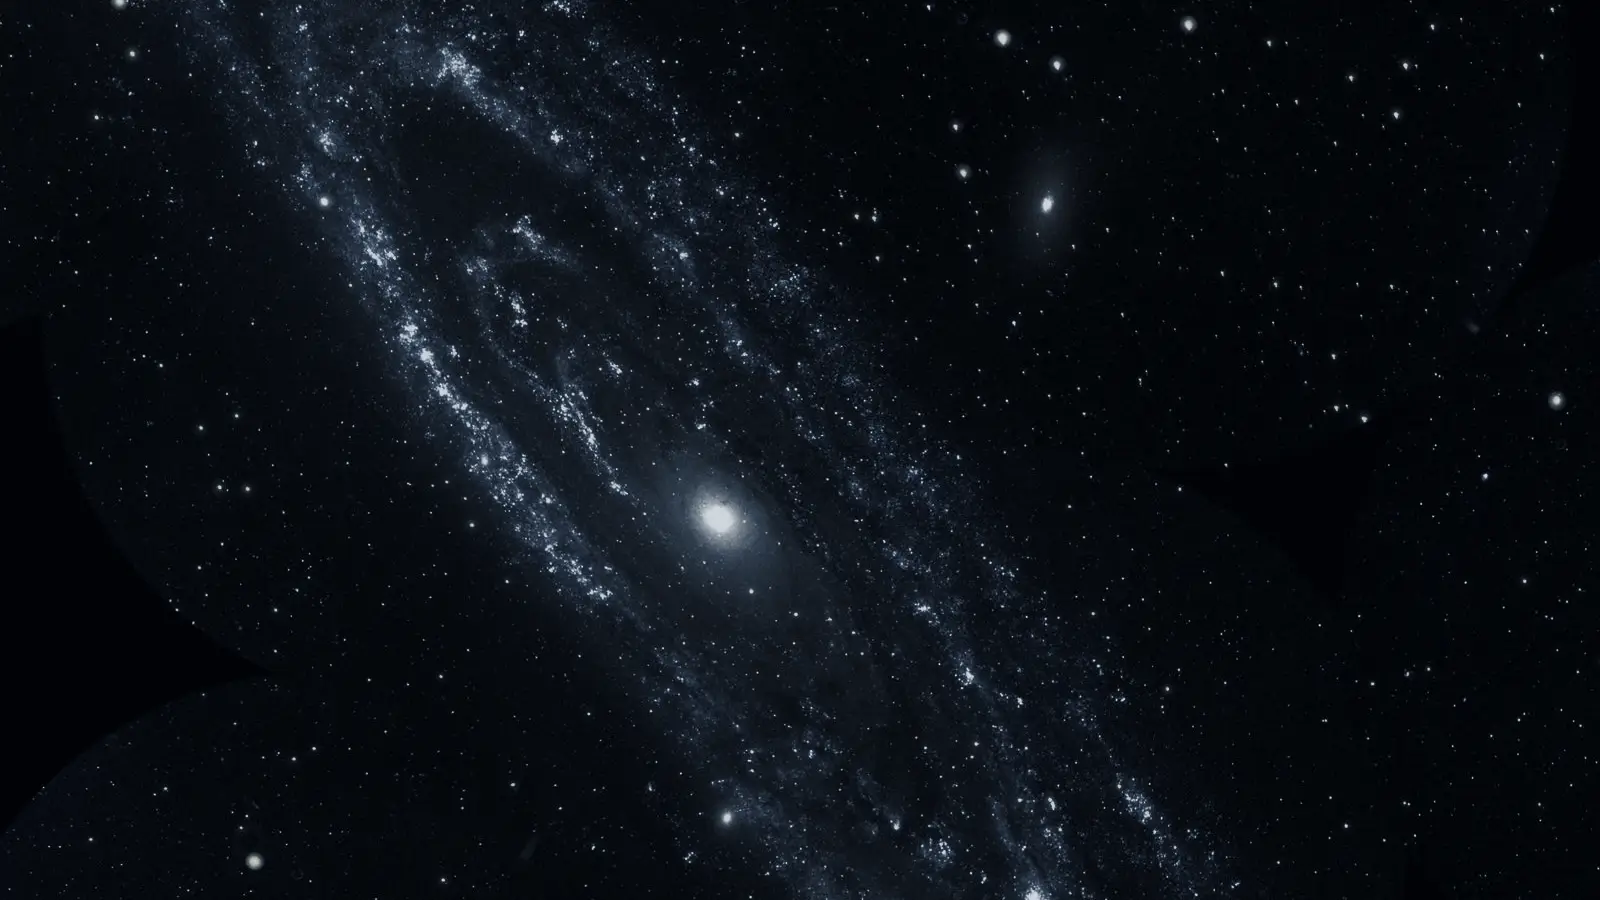
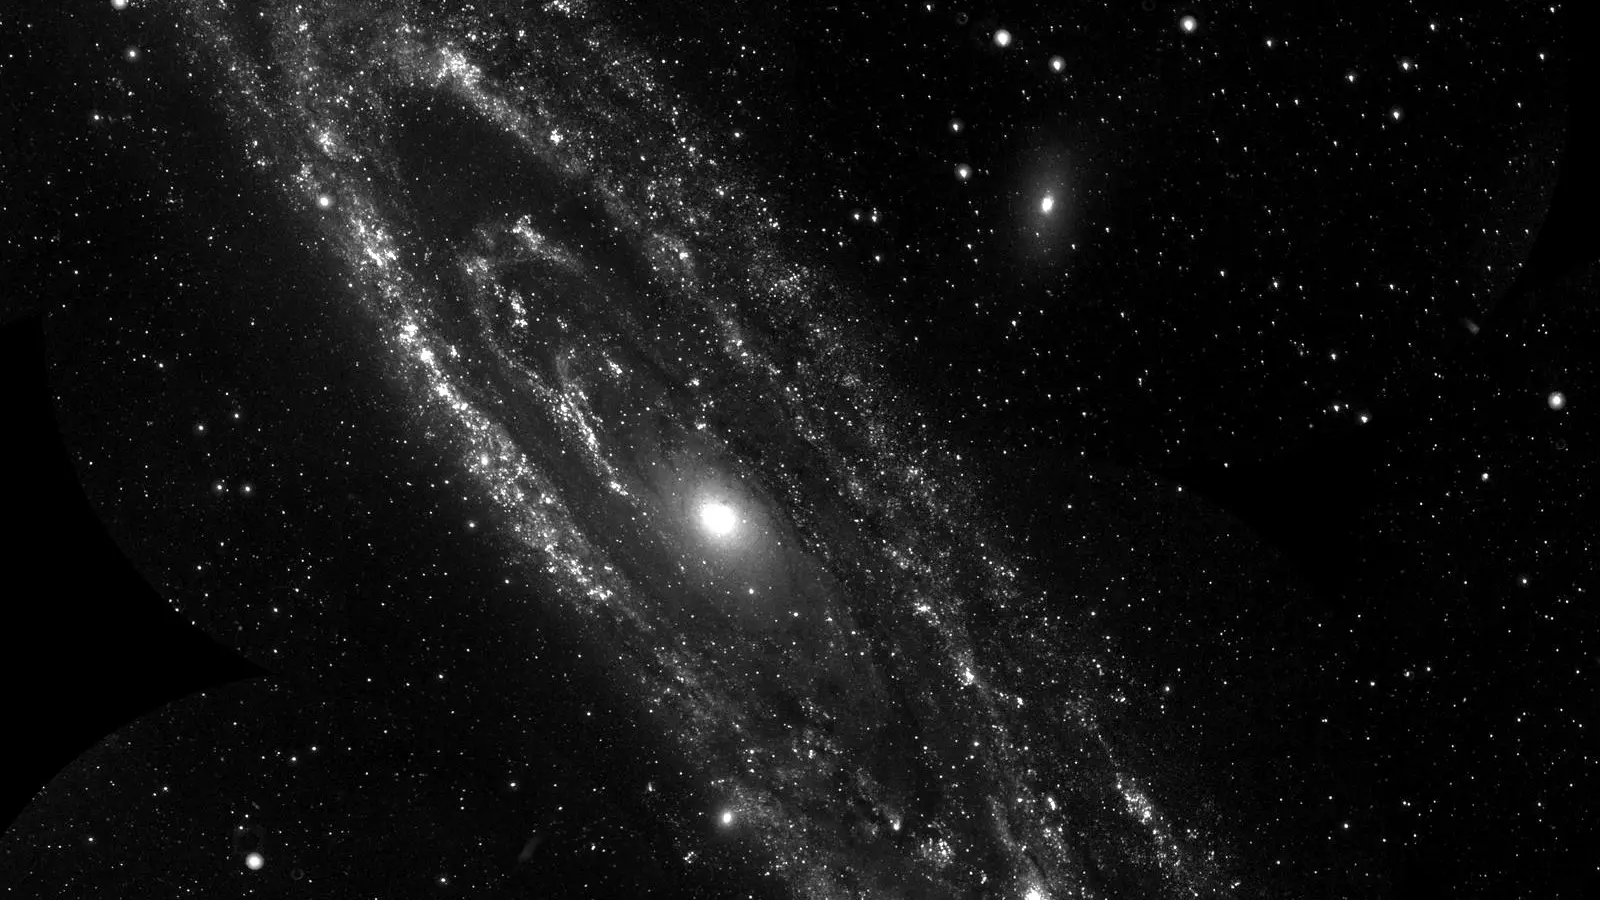
Tint D mixed with A: black-and-white photos with a soft violet cast
- background photos are now neutral black and white; one setting,
  --tint and --tint-mix in style.css, colours the tab backdrops, every
  card and the footer (Tesseract violet at half strength)
- lilac accents replace the gold; neutrals take a faint violet cast;
  the spacetime grid, black hole, robot light and the big-bang colours
  follow
- footer photo is now the Carina cliffs

Claude-Session: https://claude.ai/code/session_01HWHBvmCxCcuhrWSnxCt8HA

diff --git a/style.css b/style.css
@@ -1,51 +1,58 @@
 /* ==========================================================================
    Tokens
-   Interstellar: cold, real-sky blue with one warm accent, the colour of an
-   accretion disk.
+   Interstellar, tinted: black-and-white space photographs with a soft
+   violet cast (Tesseract mixed with Silver screen), lilac accents.
    Every colour is set here. Change a token and the whole site follows.
    ========================================================================== */
 
 :root {
-  --bg:          #05080e;
-  --panel:       rgba(16, 15, 15, 0.84);
-  --panel-solid: #121111;
-  --line:        rgba(235, 225, 210, 0.13);
-  --line-soft:   rgba(235, 225, 210, 0.07);
-  --text:        #efebe4;
-  --muted:       #c4bdb2;
-  --faint:       #978f84;
-  --accent:      #e2b06a;   /* amber: active tab, selected tile, tags */
-  --accent-2:    #dccfb8;   /* warm sand: commit hashes and PR links */
+  --bg:          #06060b;
+  --panel:       rgba(18, 17, 24, 0.84);
+  --panel-solid: #121118;
+  --line:        rgba(228, 222, 242, 0.13);
+  --line-soft:   rgba(228, 222, 242, 0.07);
+  --text:        #eeebf3;
+  --muted:       #c4bfce;
+  --faint:       #978fa6;
+  --accent:      #c9b8ff;   /* lilac: active tab, selected tile, tags */
+  --accent-2:    #e2dcf2;   /* pale lavender: commit hashes and PR links */
   --live:        #9fe3c0;   /* availability dot */
-  --gradient:    linear-gradient(90deg, #e2b06a 0%, #f1e6d2 55%, #c9b896 100%);
+  --gradient:    linear-gradient(90deg, #c9b8ff 0%, #f1edf8 55%, #b3a7d6 100%);
 
   --font-display: "Bebas Neue", "Oswald", Impact, "Arial Narrow", sans-serif;
   --font-body:    "Barlow", system-ui, -apple-system, "Segoe UI", sans-serif;
   --font-mono:    "JetBrains Mono", ui-monospace, "SFMono-Regular", Menlo, monospace;
 
+  /* The tint. Photos are black and white; this colours all of them.
+     --tint is the colour (R G B), --tint-mix how strongly it shows (0 to 1).
+     0 gives pure black and white. Now: Tesseract violet, half strength. */
+  --tint: 92 70 176;
+  --tint-mix: 0.5;
+  --tint-layer: rgb(var(--tint) / var(--tint-mix));
+
   --page: 80rem;
   --gutter: 24px;
 
   /* Channels for translucent colours, and theme-tinted extras */
-  --bg-rgb: 5 8 14;
-  --text-rgb: 239 235 228;
-  --muted-rgb: 196 189 178;
-  --accent-rgb: 226 176 106;
-  --accent-2-rgb: 220 207 184;
-  --neb-1: 70 100 140;
-  --neb-2: 120 150 190;
-  --neb-3: 40 62 98;
-  --lede-a: #f3e6cf;
-  --lede-b: #efe3cf;
-  --bot-light: #e2b06a;
+  --bg-rgb: 6 6 11;
+  --text-rgb: 238 235 243;
+  --muted-rgb: 196 191 206;
+  --accent-rgb: 201 184 255;
+  --accent-2-rgb: 226 220 242;
+  --neb-1: 64 54 112;
+  --neb-2: 112 104 146;
+  --neb-3: 40 36 72;
+  --lede-a: #e7defe;
+  --lede-b: #f3f0f8;
+  --bot-light: #c9b8ff;
 
   /* Spacetime canvas (js/spacetime.js) */
-  --st-grid-a: 176, 182, 192;
-  --st-grid-b: 226, 214, 194;
-  --st-hot: 255, 248, 236;
-  --st-warm: 238, 196, 136;
-  --st-cool: 190, 112, 70;
-  --st-glow: 230, 186, 128;
+  --st-grid-a: 182, 178, 202;
+  --st-grid-b: 222, 216, 238;
+  --st-hot: 255, 252, 255;
+  --st-warm: 214, 200, 255;
+  --st-cool: 140, 112, 204;
+  --st-glow: 188, 168, 242;
 }
 
 
@@ -112,6 +119,7 @@ h1, h2, h3 { margin: 0; }
   background-position: center top;
   background-size: cover;
   background-repeat: no-repeat;
+  background-blend-mode: color, normal;
   mix-blend-mode: screen;
   -webkit-mask-image: linear-gradient(180deg, #000 0%, #000 45%, transparent 90%);
           mask-image: linear-gradient(180deg, #000 0%, #000 45%, transparent 90%);
@@ -543,8 +551,10 @@ html:not(.has-tabs) .panel + .panel { padding-top: 24px; }
   border-top: 1px solid var(--line);
   background:
     linear-gradient(180deg, rgb(var(--bg-rgb) / 0.97) 0%, rgb(var(--bg-rgb) / 0.55) 45%, rgb(var(--bg-rgb) / 0.8) 100%),
-    url("images/bg/saturn.webp") center 62% / cover no-repeat,
+    linear-gradient(var(--tint-layer), var(--tint-layer)),
+    url("images/bg/carina.webp") center 30% / cover no-repeat,
     var(--bg);
+  background-blend-mode: normal, color, normal;
 }
 .footer::before {
   content: ""; position: absolute; left: 0; right: 0; top: -1px; height: 1px;
@@ -702,7 +712,7 @@ html:not(.has-tabs) .panel + .panel { padding-top: 24px; }
   position: absolute; left: 50%; top: 52%;
   width: 260vmax; height: 260vmax; transform: translateX(-50%);
   border-radius: 50%;
-  background: radial-gradient(circle, #03060b 0%, #03060b 49.55%, rgba(170, 205, 240, 0.55) 49.85%, rgba(120, 160, 210, 0.14) 50.6%, rgba(120, 160, 210, 0) 52.5%);
+  background: radial-gradient(circle, #03060b 0%, #03060b 49.55%, rgba(212, 204, 238, 0.5) 49.85%, rgba(150, 136, 200, 0.14) 50.6%, rgba(150, 136, 200, 0) 52.5%);
 }
 
 /* ==========================================================================
@@ -905,8 +915,10 @@ html.intro .hero-text > *, html.intro .hero-lede { animation-play-state: paused;
   --card-pos: 70% 40%;
   background:
     linear-gradient(165deg, rgb(var(--bg-rgb) / 0.62) 0%, rgb(var(--bg-rgb) / 0.86) 55%, rgb(var(--bg-rgb) / 0.94) 100%),
+    linear-gradient(var(--tint-layer), var(--tint-layer)),
     var(--card-img) var(--card-pos) / cover no-repeat,
     var(--panel-solid);
+  background-blend-mode: normal, color, normal;
 }
 .tile:nth-child(7n+2) { --card-img: url("images/bg/carina.webp");     --card-pos: 30% 20%; }
 .tile:nth-child(7n+3) { --card-img: url("images/bg/bh-disk.webp");    --card-pos: 55% 55%; }

diff --git a/js/intro.js b/js/intro.js
@@ -2,7 +2,7 @@
   The opening: a big bang, then the motto.
 
   A point of light brightens, flashes, and throws out matter that cools from
-  white through amber to blue as it spreads. The motto settles in the middle,
+  white through lilac to silver as it spreads. The motto settles in the middle,
   then the curtain lifts and the page's details arrive one by one (their
   animations wait on the "intro" class, which this script removes).
 
@@ -48,12 +48,12 @@
       parts.push({ x: cx, y: cy, vx: Math.cos(a) * sp, vy: Math.sin(a) * sp, life: 0, size: 0.6 + Math.random() * 1.8 });
     }
   }
-  // White, then amber, then a cold blue as each grain ages
+  // White, then lilac, then a pale silver-violet as each grain ages
   function colour(age, alpha) {
     var r, g, b;
-    if (age < 0.25)      { var k = age / 0.25; r = 255; g = 255 - k * 60; b = 245 - k * 135; }
-    else if (age < 0.6)  { var k2 = (age - 0.25) / 0.35; r = 255 - k2 * 99; g = 195 + k2 * 5; b = 110 + k2 * 135; }
-    else                 { r = 156; g = 200; b = 245; }
+    if (age < 0.25)      { var k = age / 0.25; r = 255 - k * 54; g = 255 - k * 71; b = 255; }
+    else if (age < 0.6)  { var k2 = (age - 0.25) / 0.35; r = 201 + k2 * 9; g = 184 + k2 * 21; b = 255 - k2 * 25; }
+    else                 { r = 210; g = 205; b = 230; }
     return "rgba(" + (r | 0) + "," + (g | 0) + "," + (b | 0) + "," + alpha + ")";
   }
 
@@ -71,7 +71,7 @@
       var k = t / BANG, r = 1.5 + k * 5 + Math.sin(t / 30) * 0.8;
       var g = ctx.createRadialGradient(cx, cy, 0, cx, cy, r * 6);
       g.addColorStop(0, "rgba(255,255,255," + (0.4 + k * 0.6) + ")");
-      g.addColorStop(1, "rgba(255,220,170,0)");
+      g.addColorStop(1, "rgba(214,200,255,0)");
       ctx.fillStyle = g;
       ctx.beginPath(); ctx.arc(cx, cy, r * 6, 0, Math.PI * 2); ctx.fill();
     } else {
@@ -82,10 +82,10 @@
         var fr = 40 + s * Math.max(W, H) * 1.6;
         var fl = ctx.createRadialGradient(cx, cy, 0, cx, cy, fr);
         fl.addColorStop(0, "rgba(255,250,240," + (0.9 * (1 - s / 0.6)) + ")");
-        fl.addColorStop(1, "rgba(255,200,140,0)");
+        fl.addColorStop(1, "rgba(200,184,255,0)");
         ctx.fillStyle = fl;
         ctx.fillRect(0, 0, W, H);
-        ctx.strokeStyle = "rgba(255,230,200," + (0.6 * (1 - s / 0.6)) + ")";
+        ctx.strokeStyle = "rgba(226,218,255," + (0.6 * (1 - s / 0.6)) + ")";
         ctx.lineWidth = 2;
         ctx.beginPath(); ctx.arc(cx, cy, fr * 0.55, 0, Math.PI * 2); ctx.stroke();
       }

diff --git a/index.html b/index.html
@@ -19,7 +19,7 @@
       }
     })();
   </script>
-  <meta name="theme-color" content="#05080e" />
+  <meta name="theme-color" content="#06060b" />
   <link rel="canonical" href="https://shombith03.github.io/shombith-portfolio/" />
   <link rel="icon" href="favicon.svg" type="image/svg+xml" />
   <link rel="apple-touch-icon" href="apple-touch-icon.png" />
@@ -565,7 +565,7 @@
         <li><a href="https://github.com/Shombith03"><span class="k">Code</span>GitHub</a></li>
         <li><a href="https://www.linkedin.com/in/shombith/"><span class="k">Work</span>LinkedIn</a></li>
       </ul>
-      <p class="credit">&copy; 2026 Shombith Chakraborty · Cosmic Shore images: Froglet Games. Space photographs: NASA, ESA, CSA, STScI, JPL-Caltech, graded blue (placeholders until my own frames go in). The robot is an original companion.</p>
+      <p class="credit">&copy; 2026 Shombith Chakraborty · Cosmic Shore images: Froglet Games. Space photographs: NASA, ESA, CSA, STScI, JPL-Caltech, in black and white with a violet tint (placeholders until my own frames go in). The robot is an original companion.</p>
     </div>
   </footer>
 

diff --git a/404.html b/404.html
@@ -6,7 +6,7 @@
   <title>Not found · Shombith Chakraborty</title>
   <meta name="robots" content="noindex" />
   <meta name="color-scheme" content="dark" />
-  <meta name="theme-color" content="#05080e" />
+  <meta name="theme-color" content="#06060b" />
   <!-- GitHub Pages serves this page for any missing path, at any depth,
        so every link and asset here is absolute to the site root. -->
   <link rel="icon" href="/shombith-portfolio/favicon.svg" type="image/svg+xml" />

diff --git a/js/tabs.js b/js/tabs.js
@@ -79,7 +79,7 @@
     var prev = photos[photoFront];
     var img = new Image();
     img.onload = function () {
-      next.style.backgroundImage = "url(\"" + src + "\")";
+      next.style.backgroundImage = "linear-gradient(var(--tint-layer), var(--tint-layer)), url(\"" + src + "\")";
       next.classList.add("show");
       prev.classList.remove("show");
       photoFront = 1 - photoFront;

diff --git a/README.md b/README.md
@@ -38,6 +38,9 @@ A single static page, served by GitHub Pages. No build step, no framework.
   drives round any card you hover, and follows the cursor after a click. Card
   motifs come from `data-motif` on each card (orbit, pulse, flow, transfer,
   scan, wave, signal, grid).
+- **Change the tint.** The space photos are black and white; `--tint` (an R G B
+  colour) and `--tint-mix` (0 to 1) at the top of `style.css` colour all of them.
+  `--tint-mix: 0` gives pure black and white.
 - **Change colours or fonts.** Edit the tokens at the top of `style.css`.
 - **Refresh the link preview.** `images/og.jpg` is 1200 × 630 and is what
   LinkedIn, Slack and Discord show when the link is shared.
